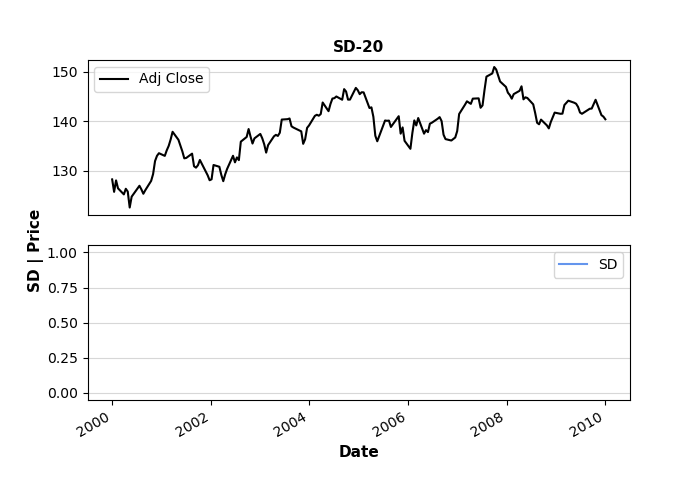
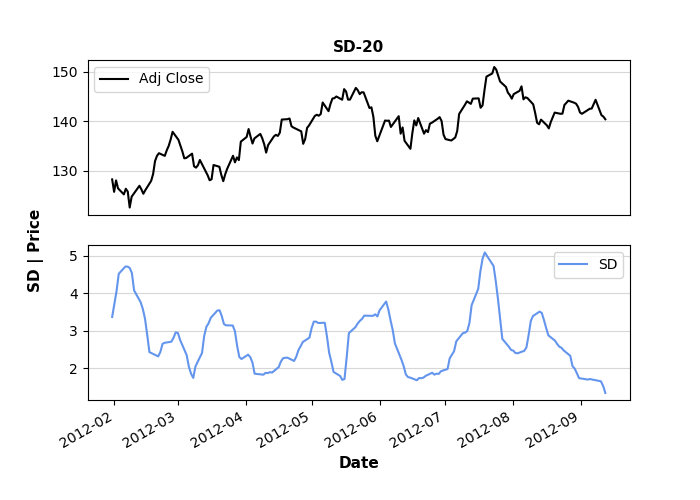
fix: SD calculation corrected.
SD calculation was returning a data frame with NaN values.
Implementation corrected and example README updated.

diff --git a/tradingti/indicators/_volatility.py b/tradingti/indicators/_volatility.py
@@ -172,7 +172,7 @@ class SD(TI):
         # Validate and tranform the input data, check tradingti.utils.
         # _data_validation module for more details
         input_data = validateStockData(data = df_data, required_columns = 
-            ['Volume', 'Adj Close'], indicator_name = 'SD')
+            ['Adj Close'], indicator_name = 'SD')
 
         # Validate that periods is positive integer less than the number of the
         # input periods found in the dataframe.
@@ -208,13 +208,9 @@ class SD(TI):
                 indicator. Index is of type date. It contains one column, the
                 'SD'.
         '''
-        
-        # Create empty dataframe for the indicator
-        sd = pd.DataFrame(index = input_data.index, columns = ['SD'], data = None)
-        
-        # For each date, calculate std for the last n-periods
-        for i in range(self._periods-1, len(input_data.index)):
-            sd.iloc[i] = input_data.iloc[i-self._periods+1:i+1].std()
+
+        sd = input_data.rolling(self._periods).std()
+        sd.columns = ['SD']
 
         return sd
         

diff --git a/examples/indicators/volatility/README.md b/examples/indicators/volatility/README.md
@@ -55,25 +55,25 @@ $python indicators_sd.py
 - Graph ../figures/indicators_sd_20_example.png saved.
 
 SD data:
-              SD
+                   SD
 Date
-2012-01-03  NaN
-2012-01-04  NaN
-2012-01-05  NaN
-2012-01-06  NaN
-2012-01-09  NaN
-...         ...
-2012-09-06  NaN
-2012-09-07  NaN
-2012-09-10  NaN
-2012-09-11  NaN
-2012-09-12  NaN
+2012-01-03       NaN
+2012-01-04       NaN
+2012-01-05       NaN
+2012-01-06       NaN
+2012-01-09       NaN
+...              ...
+2012-09-06  1.690377
+2012-09-07  1.680483
+2012-09-10  1.643284
+2012-09-11  1.520329
+2012-09-12  1.332017
 
 [176 rows x 1 columns]
 
-SD value at 2012-09-06: [nan]
+SD value at 2012-09-06: [1.6903767098052842]
 
-SD value at 2012-09-12 00:00:00 : [nan]
+SD value at 2012-09-12 00:00:00 : [1.3320165756829971]
 
 Signal: ('Hold', 0)
 ```
